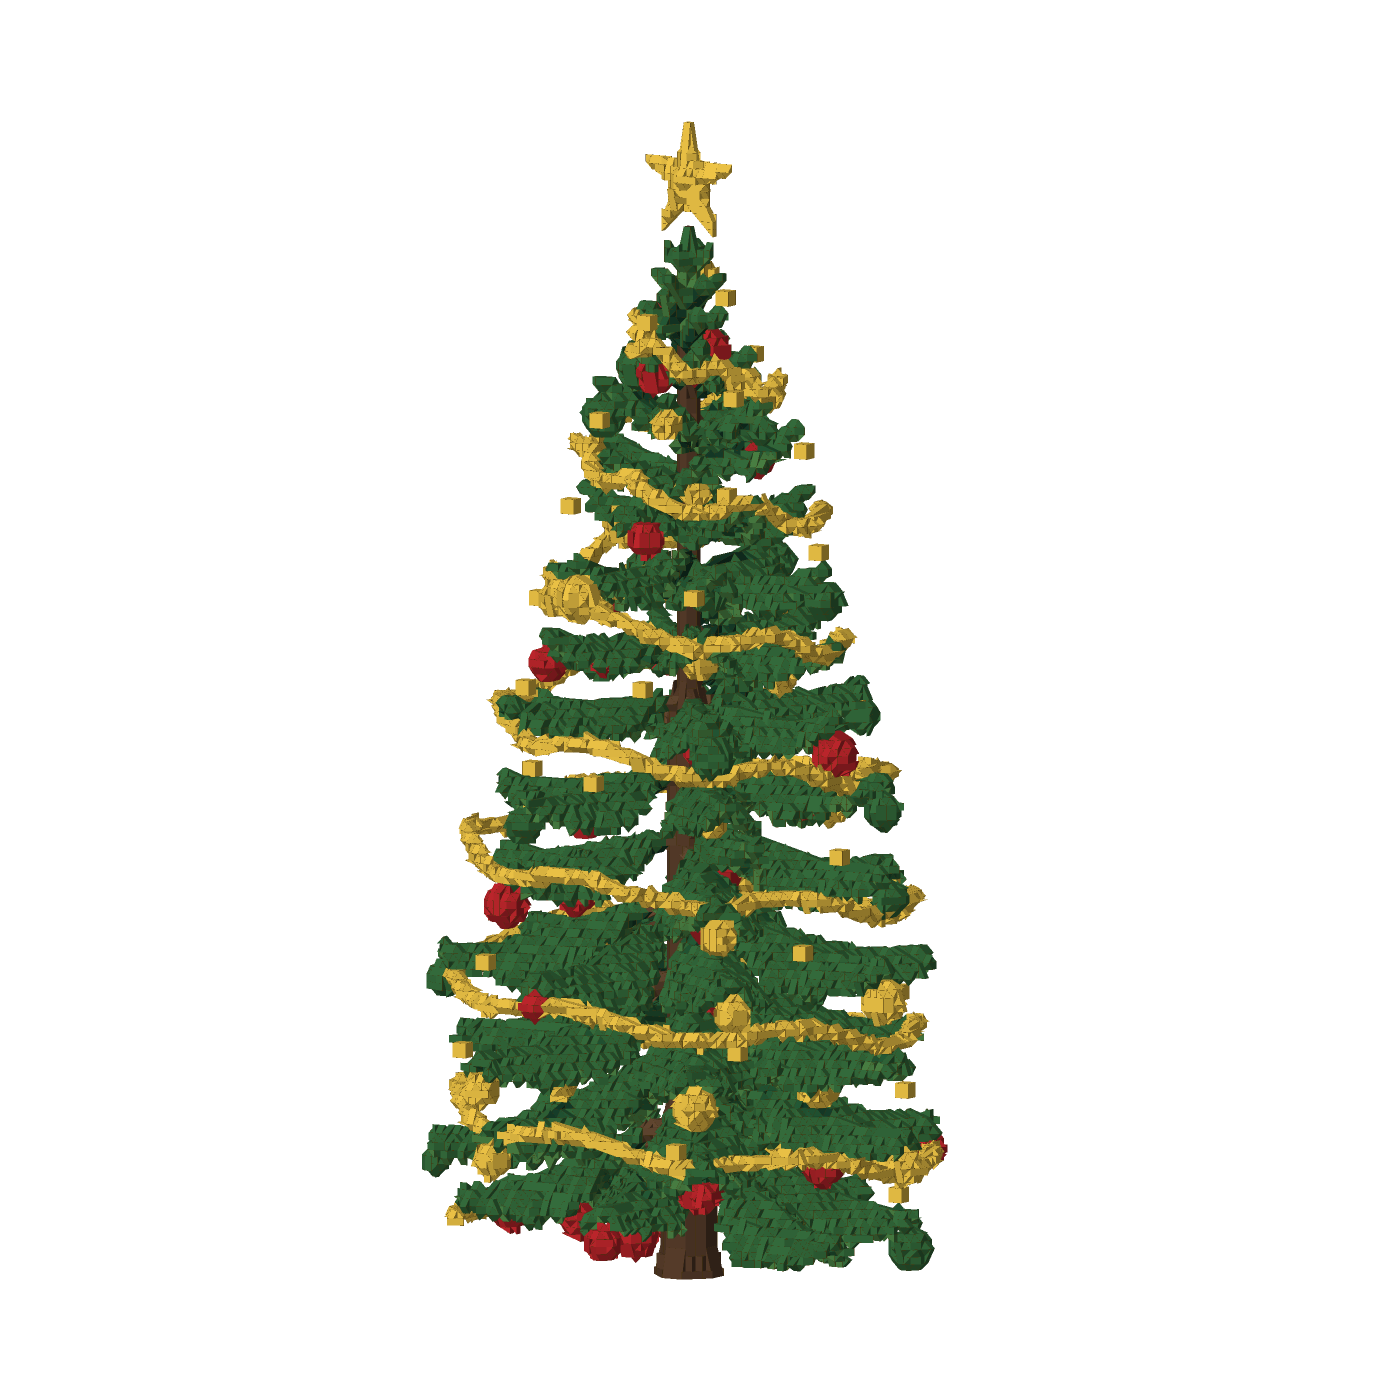
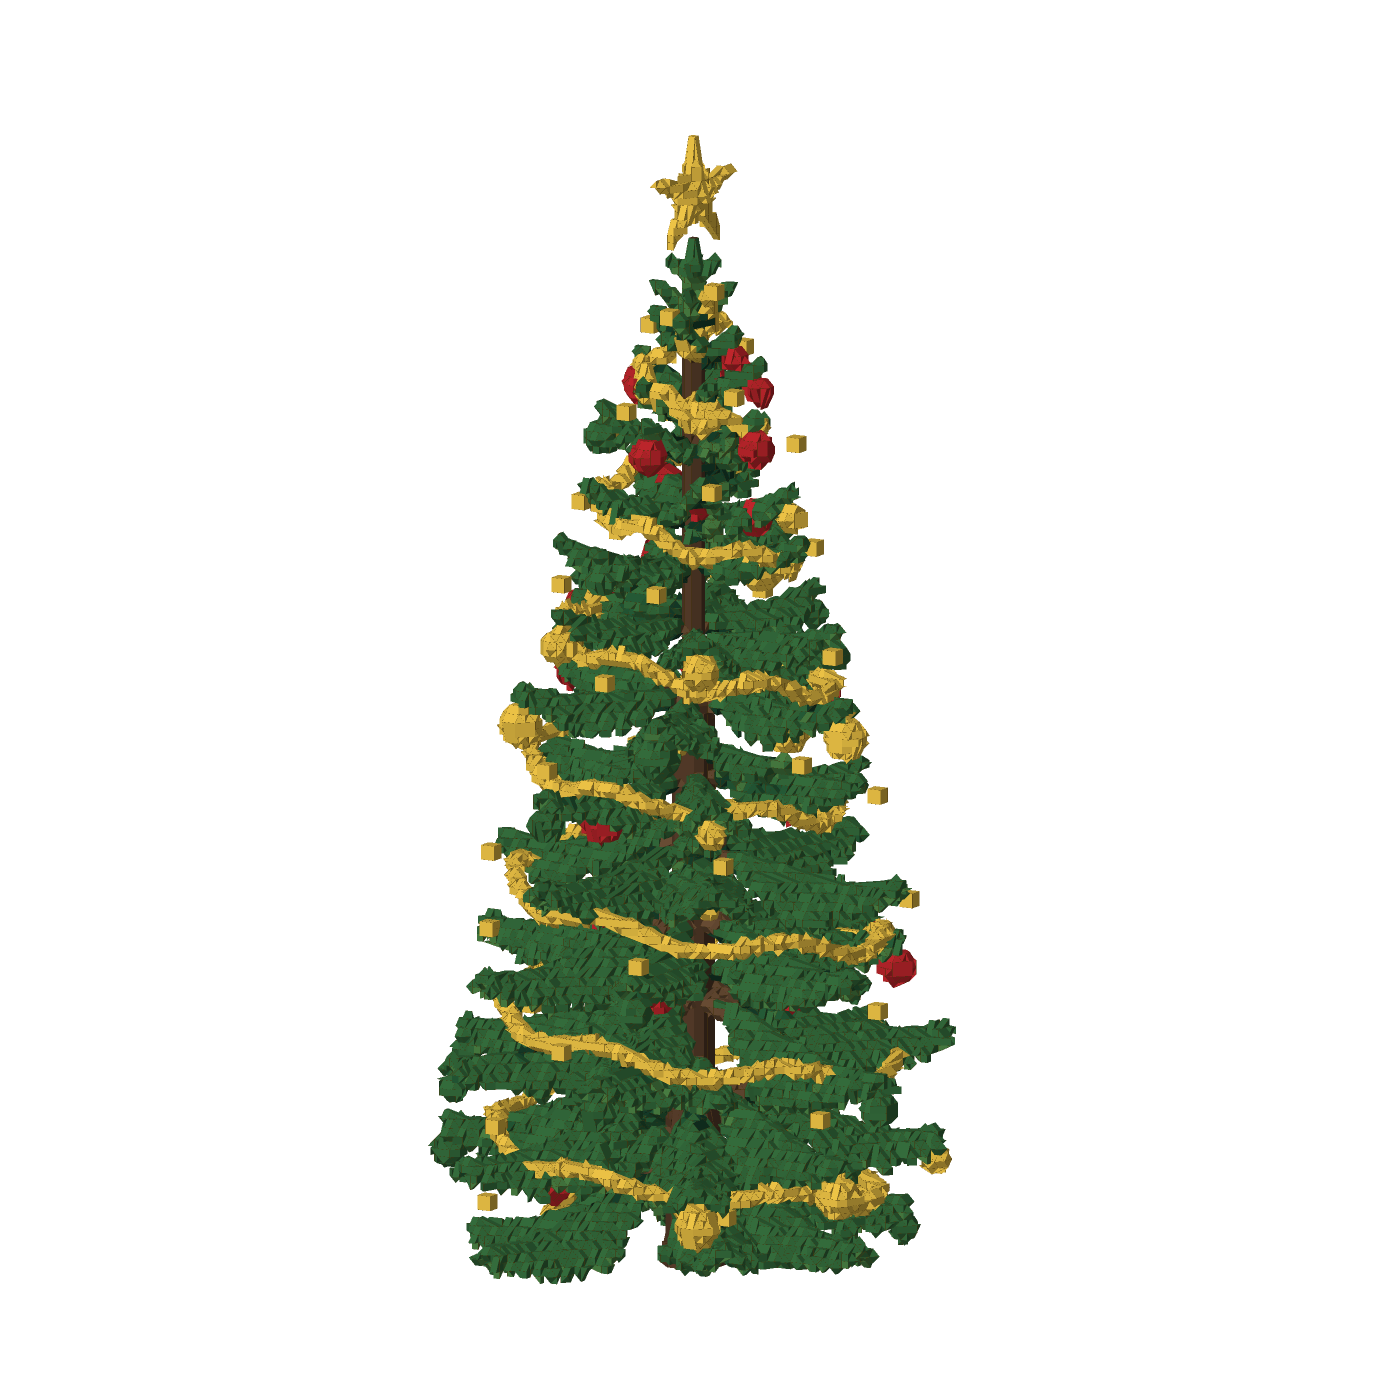
A pine's tinsel hangs as far out as a slider says, and starts among the ends of the boughs

Changed region(s): [[0.3071, 0.0921, 0.6757, 0.9214]]

diff --git a/core/src/report.rs b/core/src/report.rs
@@ -102,7 +102,7 @@ pub fn spec_text(spec: &Spec) -> String {
     }));
     // a tree: which kind, which one of it, how full, how many (tiers, fronds or limbs), how bent, whether it has its extras (1 or 0), and how thick its trunk is (a percentage of the usual; a save from before trunks could be set has none, and is read as 100)
     // (and a pine's decorations: how many baubles, whether tinsel, which lights, and whether they shine in the game)
-    line("tree", format!("{},{},{},{},{},{},{},{},{},{},{}", crate::tree::KINDS[spec.tree.kind as usize].1, spec.tree.seed, spec.tree.fullness, spec.tree.count, spec.tree.bend, spec.tree.extras as u8, spec.tree.girth, spec.tree.baubles, spec.tree.tinsel as u8, spec.tree.lights, spec.tree.shine as u8));
+    line("tree", format!("{},{},{},{},{},{},{},{},{},{},{},{}", crate::tree::KINDS[spec.tree.kind as usize].1, spec.tree.seed, spec.tree.fullness, spec.tree.count, spec.tree.bend, spec.tree.extras as u8, spec.tree.girth, spec.tree.baubles, spec.tree.tinsel as u8, spec.tree.lights, spec.tree.shine as u8, spec.tree.hang));
     // furniture: which kind, which arrangement of books, how thick its boards are, how many shelves (0 for as many as fit at the spacing), the spacing, the widest a bay may be (0 for no uprights), how tall its plinth is, whether it has a back and mouldings (1 or 0), and how full of books it is, 0 to 100
     {
         let f = &spec.furniture;
@@ -323,8 +323,8 @@ pub fn parse_spec(text: &str) -> Result<Spec, String> {
                 // The kind, and then as many of the rest as are given, in
                 // order: `oak` alone is the oak as it starts out, and
                 // `oak,7` the seventh of them.
-                if parts.len() > 11 {
-                    return Err(bad("expected `kind,seed,fullness,count,bend,extras,girth,baubles,tinsel,lights,shine`, or the first few of them"));
+                if parts.len() > 12 {
+                    return Err(bad("expected `kind,seed,fullness,count,bend,extras,girth,baubles,tinsel,lights,shine,hang`, or the first few of them"));
                 }
                 // (the rose bush is gone: read as the flower nearest it, the peony)
                 let named = if parts[0] == "rose" { "peony" } else { parts[0] };
@@ -367,6 +367,10 @@ pub fn parse_spec(text: &str) -> Result<Spec, String> {
                 }
                 if let Some(shine) = parts.get(10) {
                     tree.shine = whole(shine)? != 0;
+                }
+                // (how far out a pine's tinsel hangs: a save from before it could be set has it where it starts)
+                if let Some(hang) = parts.get(11) {
+                    tree.hang = whole(hang)?.clamp(crate::tree::HANG.0 as _, crate::tree::HANG.1 as _) as i32;
                 }
                 spec.tree = tree.clamped();
             }
@@ -1240,11 +1244,11 @@ mosaic = {values}
                 mosaic: Some(crate::pattern::Mosaic { style: 1, size: 3, bevel: false, border: 2, seed: 41, mortar: true, stagger: -1, upright: false, uneven: [0; 2] }),
                 blend: Some(2.5),
                 carve: true,
-                tree: crate::tree::Tree { kind: crate::tree::Kind::Palm, seed: 12345678901234567890, fullness: 35, count: 23, bend: 80, extras: true, girth: 165, baubles: 70, tinsel: true, lights: 2, shine: false },
+                tree: crate::tree::Tree { kind: crate::tree::Kind::Palm, seed: 12345678901234567890, fullness: 35, count: 23, bend: 80, extras: true, girth: 165, baubles: 70, tinsel: true, hang: 55, lights: 2, shine: false },
                 furniture: crate::furniture::Furniture { kind: crate::furniture::Kind::Bookcase, seed: 9, board: 1, shelves: 0, spacing: 8, bay: 0, plinth: 0, back: true, moulding: false, books: 100 },
                 maze: crate::maze::Maze { kind: crate::maze::Kind::Grid, rings: 11, divisions: 9, grow: 3, seed: 9876543210987654321, entrance: 200, floor: 2, solution: true, hedge: true },
             },
-            Spec { form: Form::Tree, points: vec![at(3.0, -4.0, 0.0)], radius: 30.0, rise: Some(90.0), tree: crate::tree::Tree { kind: crate::tree::Kind::Oak, seed: 7, fullness: 100, count: 2, bend: 0, extras: false, girth: 50, baubles: 0, tinsel: false, lights: 0, shine: true }, ..Spec::default() },
+            Spec { form: Form::Tree, points: vec![at(3.0, -4.0, 0.0)], radius: 30.0, rise: Some(90.0), tree: crate::tree::Tree { kind: crate::tree::Kind::Oak, seed: 7, fullness: 100, count: 2, bend: 0, extras: false, girth: 50, baubles: 0, tinsel: false, hang: 80, lights: 0, shine: true }, ..Spec::default() },
             Spec { form: Form::Furniture, points: vec![at(0.0, 2.0, 30.0)], radius: 30.0, stretch: DVec3::new(0.6, 0.15, 1.0), furniture: crate::furniture::Furniture { kind: crate::furniture::Kind::Bookcase, seed: 12345678901234567890, board: 3, shelves: 4, spacing: 17, bay: 40, plinth: 5, back: false, moulding: true, books: 35 }, ..Spec::default() },
         ];
         // a save from before a trunk's width could be set has no number for it, and its tree is as it was

diff --git a/core/src/tree.rs b/core/src/tree.rs
@@ -125,6 +125,10 @@ pub struct Tree {
     pub baubles: i32,
     /// A pine: whether a garland of tinsel is wound round it.
     pub tinsel: bool,
+    /// A pine: how far out its tinsel hangs, as a percentage of the way
+    /// from the stem to the ends of the boughs at each height:
+    /// [`HANG`]'s least to its most.
+    pub hang: i32,
     /// A pine: 0 for no lights, 1 for a string of them, 2 for candles on its boughs.
     pub lights: u8,
     /// A pine: whether its lights are written with a light on each in the game, or as glowing bricks alone.
@@ -168,7 +172,7 @@ impl Tree {
             Kind::Bed => (50, 14, 40),
             Kind::Cherry => (60, 7, 40),
         };
-        Tree { kind, seed: 1, fullness, count, bend, extras: false, girth: 100, baubles: 0, tinsel: false, lights: 0, shine: true }
+        Tree { kind, seed: 1, fullness, count, bend, extras: false, girth: 100, baubles: 0, tinsel: false, hang: HANG.2, lights: 0, shine: true }
     }
 
     /// The fewest and most of whatever `count` counts, for a kind.
@@ -200,7 +204,7 @@ impl Tree {
     /// file or sent by another program may say anything.
     pub fn clamped(self) -> Tree {
         let (least, most) = Tree::count_range(self.kind);
-        Tree { fullness: self.fullness.clamp(0, 100), count: self.count.clamp(least, most), bend: self.bend.clamp(0, 100), girth: self.girth.clamp(GIRTH.0, GIRTH.1), baubles: self.baubles.clamp(0, 100), lights: self.lights.min(2), ..self }
+        Tree { fullness: self.fullness.clamp(0, 100), count: self.count.clamp(least, most), bend: self.bend.clamp(0, 100), girth: self.girth.clamp(GIRTH.0, GIRTH.1), baubles: self.baubles.clamp(0, 100), hang: self.hang.clamp(HANG.0, HANG.1), lights: self.lights.min(2), ..self }
     }
 
     /// Whether a kind has a trunk whose thickness [`Tree::girth`] sets: the
@@ -316,6 +320,12 @@ pub const BAUBLE_GOLD: u8 = 14;
 pub const BAUBLE_PALE: u8 = 12;
 /// a pine's tinsel
 pub const TINSEL: u8 = 21;
+
+/// How far out a pine's tinsel may hang, as a percentage of the way from
+/// its stem to its outline: the least, the most, and where it starts. At
+/// the least it is wound close round the stem inside the boughs, and at
+/// the most a little beyond their ends, hanging free between the tiers.
+pub const HANG: (i32, i32, i32) = (40, 110, 80);
 /// a pine's lights and its candles' flames
 pub const FLAME: u8 = 28;
 /// a pine's candles
@@ -1170,7 +1180,13 @@ fn pine(g: &mut Grown, tree: &Tree, height: f64, spread: f64) {
             let t = n as f64 / steps as f64;
             let (angle, z) = (lean_way + t * turns * TAU, high + 2.0 - (high + 2.0 - low) * t);
             let sag = 2.5 * (angle * 3.0).sin().powi(2);
-            stem(z) + DVec3::new(angle.cos(), angle.sin(), 0.0) * (outline(z) * 0.94 + 1.0) - DVec3::Z * sag
+            // (As far out as `Tree::hang` says, which starts at four fifths
+            // of the way to the tree's outline, among the ends of the
+            // boughs. Hung always at the outline itself and a cell beyond,
+            // it stood off the tree like a hoop wherever it crossed the gap
+            // between two tiers, the outline being the reach of the longest
+            // bough at each height and most boughs shorter.)
+            stem(z) + DVec3::new(angle.cos(), angle.sin(), 0.0) * (outline(z) * tree.hang as f64 / 100.0) - DVec3::Z * sag
         };
         for n in 0..steps {
             let (a, b) = (at(n), at(n + 1));
@@ -4864,6 +4880,15 @@ mod tests {
         assert!(bulbs.len() <= grown_bulbs + 4 && bulbs.len() * 10 >= grown_bulbs * 8 && bulbs.iter().filter(|b| b.ext == [2, 2, 2]).count() * 10 >= bulbs.len() * 8, "{} bricks for {grown_bulbs} bulbs: {:?}", bulbs.len(), bulbs.iter().map(|b| b.ext).collect::<Vec<_>>());
         // a pine with nothing on it has none of any of it
         assert!(grown(Tree::of(Kind::Pine)).parts.iter().all(|p| !matches!(p.shade, STAR | EXTRA | BAUBLE_GOLD | BAUBLE_PALE | TINSEL | FLAME | WAX)));
+
+        // the garland hangs as far out as it is told to: close round the stem, or out at the ends of the boughs
+        let reach = |hang: i32| {
+            let tree = grown(Tree { hang, ..dressed(0, true, 0) });
+            let out: Vec<f64> = tree.parts.iter().filter(|p| p.shade == TINSEL).filter_map(|p| match p.shape { Shape::Cone { a, .. } => Some(a.truncate().length()), _ => None }).collect();
+            out.iter().sum::<f64>() / out.len() as f64
+        };
+        let (tight, usual, loose) = (reach(HANG.0), reach(HANG.2), reach(HANG.1));
+        assert!(tight < usual * 0.6 && usual < loose * 0.8, "{tight}, {usual}, {loose}");
     }
 
     /// Going up a stem from the ground to past where its limbs leave, the

diff --git a/editor/src/panel.rs b/editor/src/panel.rs
@@ -1109,6 +1109,9 @@ fn tree(ui: &mut Ui, state: &mut State, largest: f64) {
             helped(ui, help("pine_star"), |ui| ui.checkbox(&mut s.tree.extras, "Star"));
             helped(ui, help("pine_baubles"), |ui| ui.add(Slider::new(&mut s.tree.baubles, 0..=100).suffix("%").text("Baubles")));
             helped(ui, help("pine_tinsel"), |ui| ui.checkbox(&mut s.tree.tinsel, "Tinsel"));
+            if s.tree.tinsel {
+                helped(ui, help("pine_hang"), |ui| ui.add(Slider::new(&mut s.tree.hang, brickloft_core::tree::HANG.0..=brickloft_core::tree::HANG.1).suffix("%").text("How far out the tinsel hangs")));
+            }
             ui.horizontal(|ui| {
                 ui.label("Lights").on_hover_text(help("pine_lights"));
                 for (n, name) in ["None", "Lights", "Candles"].into_iter().enumerate() {

diff --git a/editor/src/mcp.rs b/editor/src/mcp.rs
@@ -1228,7 +1228,7 @@ mod tests {
         // in the palm's colours, as the pattern has them, and told so
         assert_eq!((state.paint.mode, state.paint.colours.as_slice()), (Mode::Pattern, crate::paint::palette("palm")));
         assert_eq!(added["forms"][0]["colour"]["mode"], "pattern");
-        assert_eq!(added["forms"][0]["settings"]["tree"], "palm,3,60,20,45,0,100,0,0,0,1");
+        assert_eq!(added["forms"][0]["settings"]["tree"], "palm,3,60,20,45,0,100,0,0,0,1,80");
         // every brick is painted the colour of its part: trunk and leaves both
         let painted = state.painted();
         let of = |n: usize| painted.iter().filter(|b| b.2 == 0 && b.1 == Some(crate::paint::palette("palm")[n])).count();

diff --git a/docs/mcp.md b/docs/mcp.md
@@ -174,7 +174,7 @@ along a hedge, a hydrangea's heads, the flowers in a clump, a stand's
 stems), how bent (0 to 100: a pine's droop, a
 palm's lean, an oak's gnarl, a hedge's looseness, how open a peony or a
 tulip is, a sunflower's nod, how far petunias trail, reeds' sway) and 1 or 0 for its extras (a star and baubles, coconuts,
-an oak or beech bare, berries on a boxwood or hedge, plumes on reeds). A seventh number is a tree's trunk width, 50 to 200 as a percentage of the usual, 100 if not given. A pine takes four more for its decorations: baubles (0 to 100), tinsel (1 or 0), lights (0 for none, 1 for a string, 2 for candles) and whether the lights shine in the game (1 or 0). Its `extras` is the star. A
+an oak or beech bare, berries on a boxwood or hedge, plumes on reeds). A seventh number is a tree's trunk width, 50 to 200 as a percentage of the usual, 100 if not given. A pine takes four more for its decorations: baubles (0 to 100), tinsel (1 or 0), lights (0 for none, 1 for a string, 2 for candles) and whether the lights shine in the game (1 or 0), then how far out the tinsel hangs (40 to 110, a percentage of the way from the stem to the ends of the boughs, 80 if not given). Its `extras` is the star. A
 hedge, reeds or grass given two or more `points` lies along the curve
 through them, closed into a ring with `closed`. `move_point` moves one of
 them. With one point it is straight along x, `stretch` `[n, 1, 1]` times

diff --git a/docs/features.md b/docs/features.md
@@ -498,7 +498,9 @@ more settings mean something different for each kind.
 | Tulip | **Flowers in the clump**, 1 to 12 | **Leaf size** | **How open the cup is** | none |
 
 A pine is dressed as a Christmas tree with **Star**, **Baubles** (how
-many, 0 for none), **Tinsel** (a garland wound round it) and **Lights**
+many, 0 for none), **Tinsel** (a garland wound round it, as tight to
+the stem or as far out among the boughs as **How far out the tinsel
+hangs** says) and **Lights**
 (none, a string of lights, or candles on the ends of its boughs; 40 at
 most). In the game the star, baubles and tinsel are the metallic
 material and each light is a glowing brick with a small warm point light
